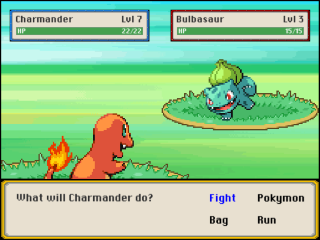
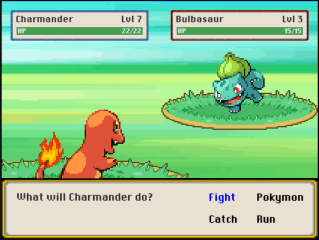
chore: add readme capture screenshot

diff --git a/README.md b/README.md
@@ -9,7 +9,9 @@ Pokymon is a Pokémon-like RPG videogame developed while taking [this Unity cour
 > Pokémon and Pokémon character images & names are trademarks of Nintendo. No copyright or trademark infringement is intended.
 
 ## Screenshots
-![World](Screenshots/world.png) ![Battle](Screenshots/battle.png) ![Party](Screenshots/party.png)
+![World](Screenshots/world.png) &nbsp; ![Battle](Screenshots/battle.png)
+
+![Capture](Screenshots/capture.png) &nbsp; ![Party](Screenshots/party.png)
 
 ## Credits
 
@@ -28,6 +30,8 @@ Pokymon is a Pokémon-like RPG videogame developed while taking [this Unity cour
 - **Pokymon list:** Unknown @ https://bulbapedia.bulbagarden.net/wiki/List_of_Pok%C3%A9mon_by_base_stats_(Generation_VIII-present)
 - **Moves list:** Unknown @ https://bulbapedia.bulbagarden.net/wiki/List_of_moves
 - **Damage formula:** Unknown @ https://bulbapedia.bulbagarden.net/wiki/Damage
+- **Catch rate formula:** Unknown @ https://bulbapedia.bulbagarden.net/wiki/Catch_rate
+- **Run from battle formula:** Unknown @ https://bulbapedia.bulbagarden.net/wiki/Escape
 - **Type effectiveness chart:** Unknown @ https://pokemondb.net/type
 
 ### Code
